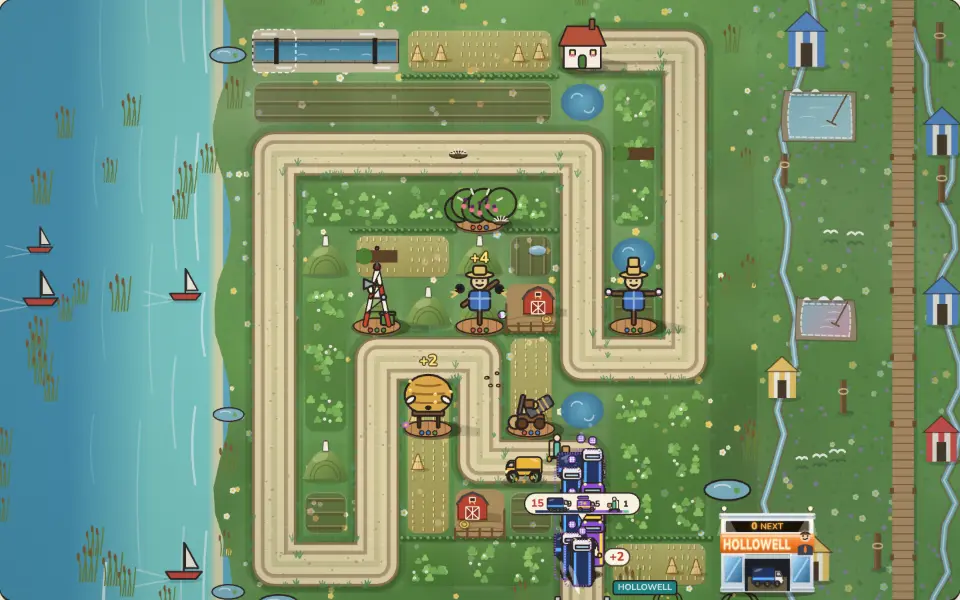
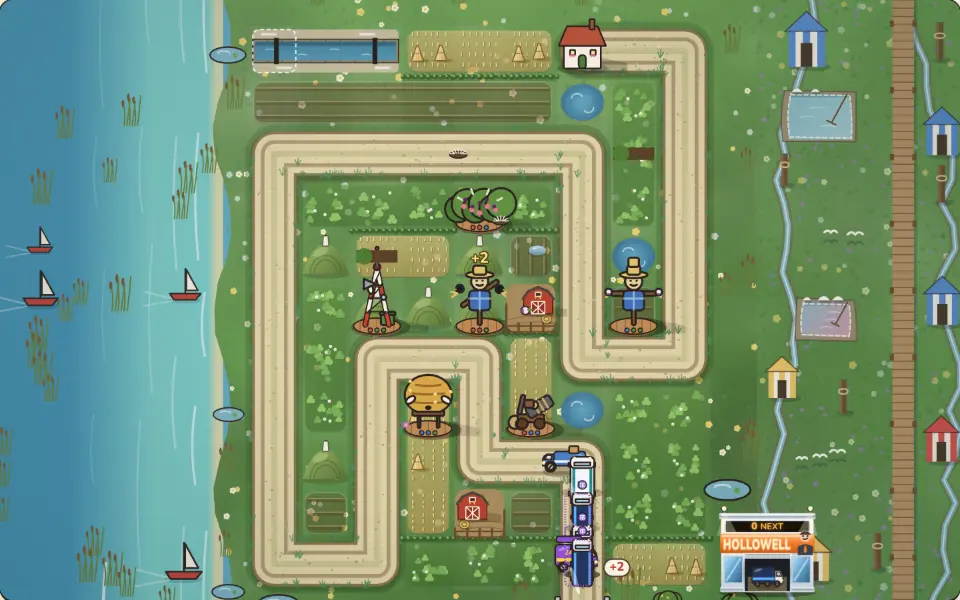
Hedgerow 380 slice 1: depots only on a dry margin (never the act's sea side), one name per gate (the town sign left off where a depot stands), and a waiting convoy spaced by straight-line gap round bends
Key art re-shot. Specs still running at commit time.

Claude-Session: https://claude.ai/code/session_01SimvMN1RHBGCWN7Eo7MzhN

diff --git a/games/hedgerow/src/main.ts b/games/hedgerow/src/main.ts
@@ -201,8 +201,8 @@ import { towerRole, type TowerRole } from "./roles";
 import { leakDebrief } from "./debrief";
 import { cheer, panic } from "./farmfolk";
 import { ringLayout } from "./buildring";
-import { depotSvg, entrySide, nearSides, repMood, repSvg, type RepMood } from "./depot";
-import { gateSignRect, lastCrayon, setWonLevels } from "./theme";
+import { depotSvg, repMood, repSvg, type RepMood } from "./depot";
+import { depotSides, gateSignRect, lastCrayon, setWonLevels } from "./theme";
 import { KITS } from "./hero";
 import { OUTFITS, isUnlocked as outfitUnlocked, outfitFor, shareOutfit, wear, wornOutfit } from "./wardrobe";
 import { actScene, renderMap } from "./map";
@@ -4769,7 +4769,10 @@ function syncDepots(g: Game): void {
     // Plan item 246: an upright phone's level 34 has no margin left of the field, so its second gate (two rows off
     // the foot) had no depot and its vans stacked on a bare plate; a gate within two cells of another edge may
     // stand its depot on that edge's margin, beside the gate.
-    for (const side of [...entrySide(start, L.cols, L.rows), ...nearSides(start, L.cols, L.rows)]) {
+    // Plan item 380: only the dry margins (never the act's water side) that theme.ts left the town sign off for.
+    const layout = { width: canvas.width, height: canvas.height, cell, offX: r.view.offX, offY: r.view.offY };
+    const dry = depotSides(L, path!, layout);
+    for (const side of dry) {
       const room = side === "left" ? fieldL - canvas.left : side === "right" ? canvas.right - fieldR : side === "top" ? fieldT - canvas.top : canvas.bottom - fieldB;
       // Only where the margin outside the field holds the whole depot: it never stands on a plot.
       if (room < dsz + 12) continue;
@@ -4777,7 +4780,8 @@ function syncDepots(g: Game): void {
       const y = side === "top" ? fieldT - 8 - dsz : side === "bottom" ? fieldB + 8 : gate.y - dsz / 2;
       // Plan item 160: the gate's town sign (painted by theme.ts's paintOneGate) stays readable: the depot slides
       // along the margin to clear it (it hid all but '…WELL' of the second gate's sign on level 34).
-      const sr = gateSignRect(L, path!, { width: canvas.width, height: canvas.height, cell, offX: r.view.offX, offY: r.view.offY }, signMeasure());
+      // (Plan item 380: with a dry margin the sign isn't painted, so there is nothing to clear: an empty box.)
+      const sr = dry.length ? { sx: -1e4, sy: -1e4, sw: 0, sh: 0 } : gateSignRect(L, path!, layout, signMeasure());
       const sign = { left: canvas.left + sr.sx, top: canvas.top + sr.sy, right: canvas.left + sr.sx + sr.sw, bottom: canvas.top + sr.sy + sr.sh };
       const tries = side === "left" || side === "right" ? [y, sign.top - 6 - dsz, sign.bottom + 6] : [x, sign.left - 6 - dsz, sign.right + 6];
       let placed = false;

diff --git a/games/hedgerow/src/theme.ts b/games/hedgerow/src/theme.ts
@@ -2,6 +2,7 @@
 // per level and size into an offscreen canvas by `paintBackground`. Everything is procedural and seeded by
 // the level id, so a level always looks the same and nothing needs downloading.
 
+import { entrySide, nearSides, type Side } from "./depot";
 import { laneCellsOf, plotKind, sceneryCells, type Level } from "./engine";
 import { fieldAt, plotLooks, sameField, type PlotLook } from "./plotlook";
 import { paintLandmarks, paintTwistDressing } from "./landmarkart";
@@ -1075,6 +1076,23 @@ export function gateSignRect(
   return { label, fs, sx, sy, sw, sh };
 }
 
+/**
+ * Plan item 380: the field edges beside a gate where Hollowell's depot can stand (main.ts syncDepots): the edge its
+ * lane enters from, or one within two cells, with a margin that holds at least the small depot, and never the act's
+ * water side (on Saltmarsh it stood half in the sea, a sailboat under its posts). Where one exists the depot's own
+ * sign names the gate, so the painted town sign is left off (the gate read HOLLOWELL twice).
+ */
+export function depotSides(level: Level, path: Level["path"], L: Layout): Side[] {
+  const s = L.cell;
+  const start = path[0] as unknown as [number, number];
+  const water = themeFor(level).water?.side;
+  const dsz = Math.max(48, Math.round(s * 1.3));
+  const fieldR = L.offX + level.cols * s;
+  const fieldB = L.offY + level.rows * s;
+  const room: Record<Side, number> = { left: L.offX, right: L.width - fieldR, top: L.offY, bottom: L.height - fieldB };
+  return [...entrySide(start, level.cols, level.rows), ...nearSides(start, level.cols, level.rows)].filter((side) => side !== water && room[side] >= dsz + 12);
+}
+
 function paintOneGate(ctx: CanvasRenderingContext2D, level: Level, path: Level["path"], L: Layout): void {
   // Where they come from: a glossy depot sign just off the field.
   const s = L.cell;
@@ -1098,6 +1116,8 @@ function paintOneGate(ctx: CanvasRenderingContext2D, level: Level, path: Level["
     ctx.fill();
     ctx.stroke();
   }
+  // Plan item 380: a gate with a depot beside it is named by the depot's sign alone.
+  if (depotSides(level, path, L).length) return;
   const { label, fs, sx, sy, sw, sh } = gateSignRect(level, path, L, ctx);
   ctx.font = `700 ${fs}px 'Hedgerow UI', system-ui, sans-serif`;
   ctx.fillStyle = "#1f8a8a";

diff --git a/games/hedgerow/src/render.ts b/games/hedgerow/src/render.ts
@@ -978,10 +978,23 @@ export class Renderer {
         });
         // Plan item 273: one size per queue (a queue in two sizes at a bend read as two convoys): the bigger only when
         // every vehicle of it stands on a straight run across.
+        // Plan item 380: spaced along the path, two side-on sprites round a bend stood closer in a straight line than
+        // their length and overlapped (level 34's Same-Day vans); each is pushed on along the lane until the straight
+        // gap to the one behind it holds too.
+        const at = (dd: number) => enemyPoint(level, { dist: dd, ...(ln.lane ? { lane: ln.lane } : {}) });
         const lay = (q: number) => {
           const ds: number[] = [];
           let d = 0.15;
           for (let i = ln.leads.length - 1; i >= 0; i--) {
+            if (i < ln.leads.length - 1) {
+              const need = (0.42 * (enemyScale(ln.leads[i]!) + enemyScale(ln.leads[i + 1]!)) + 0.06) * q;
+              const prev = at(ds[i + 1]!);
+              for (let k = 0; k < 30; k++) {
+                const p = at(d);
+                if (Math.hypot(p.x - prev.x, p.y - prev.y) >= need * 0.98) break;
+                d += 0.05;
+              }
+            }
             ds[i] = d;
             if (i > 0) d += (0.42 * (enemyScale(ln.leads[i]!) + enemyScale(ln.leads[i - 1]!)) + 0.06) * q;
           }
